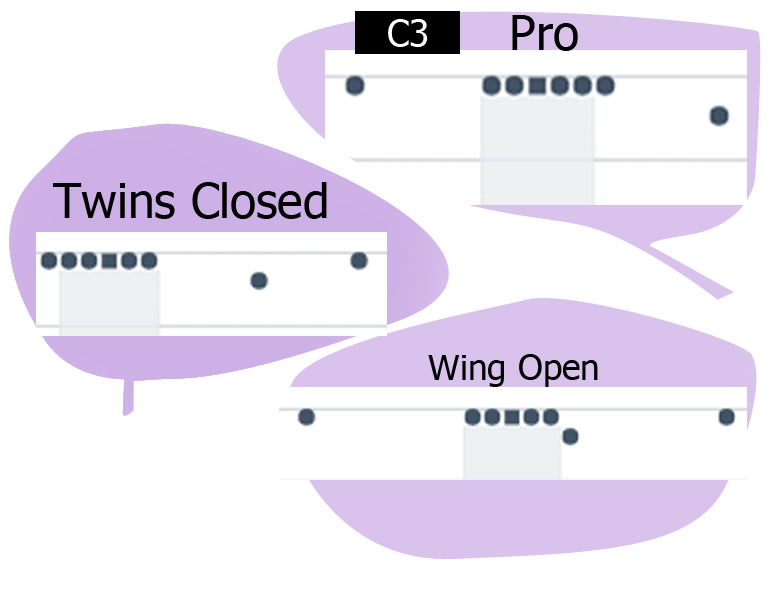
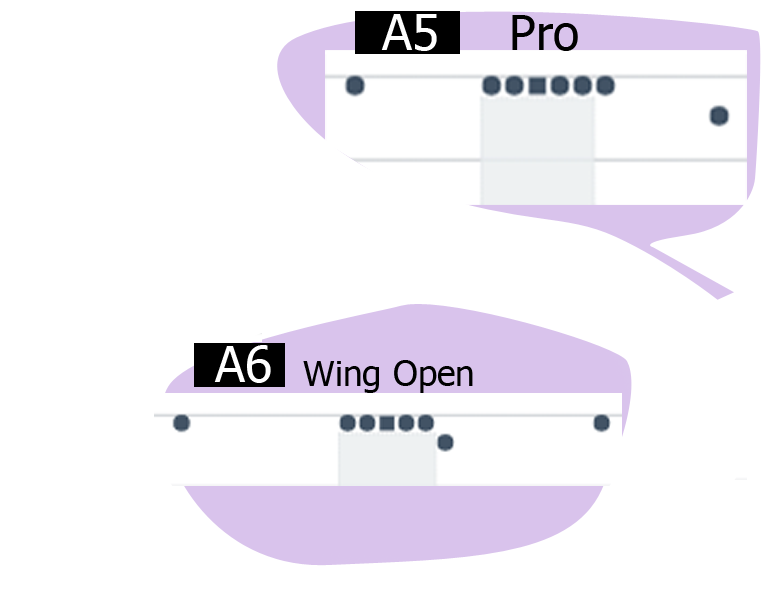
edit png

Changed region(s): [[0.0, 0.2118, 0.9974, 0.7563], [0.2182, 0.7866, 0.9351, 0.9681], [0.4987, 0.0, 0.5922, 0.0908]]

diff --git a/index.html b/index.html
@@ -633,6 +633,9 @@
                                         <div class="col mx-auto">
                                             <img class="mw-100" src="img/6linemenc.png" alt="">
                                         </div>
+                                        <div class="col mx-auto">
+                                            <img class="mw-100" src="img/6linemend.png" alt="">
+                                        </div>
                                     </div>
                                 </div>
                             </div>
